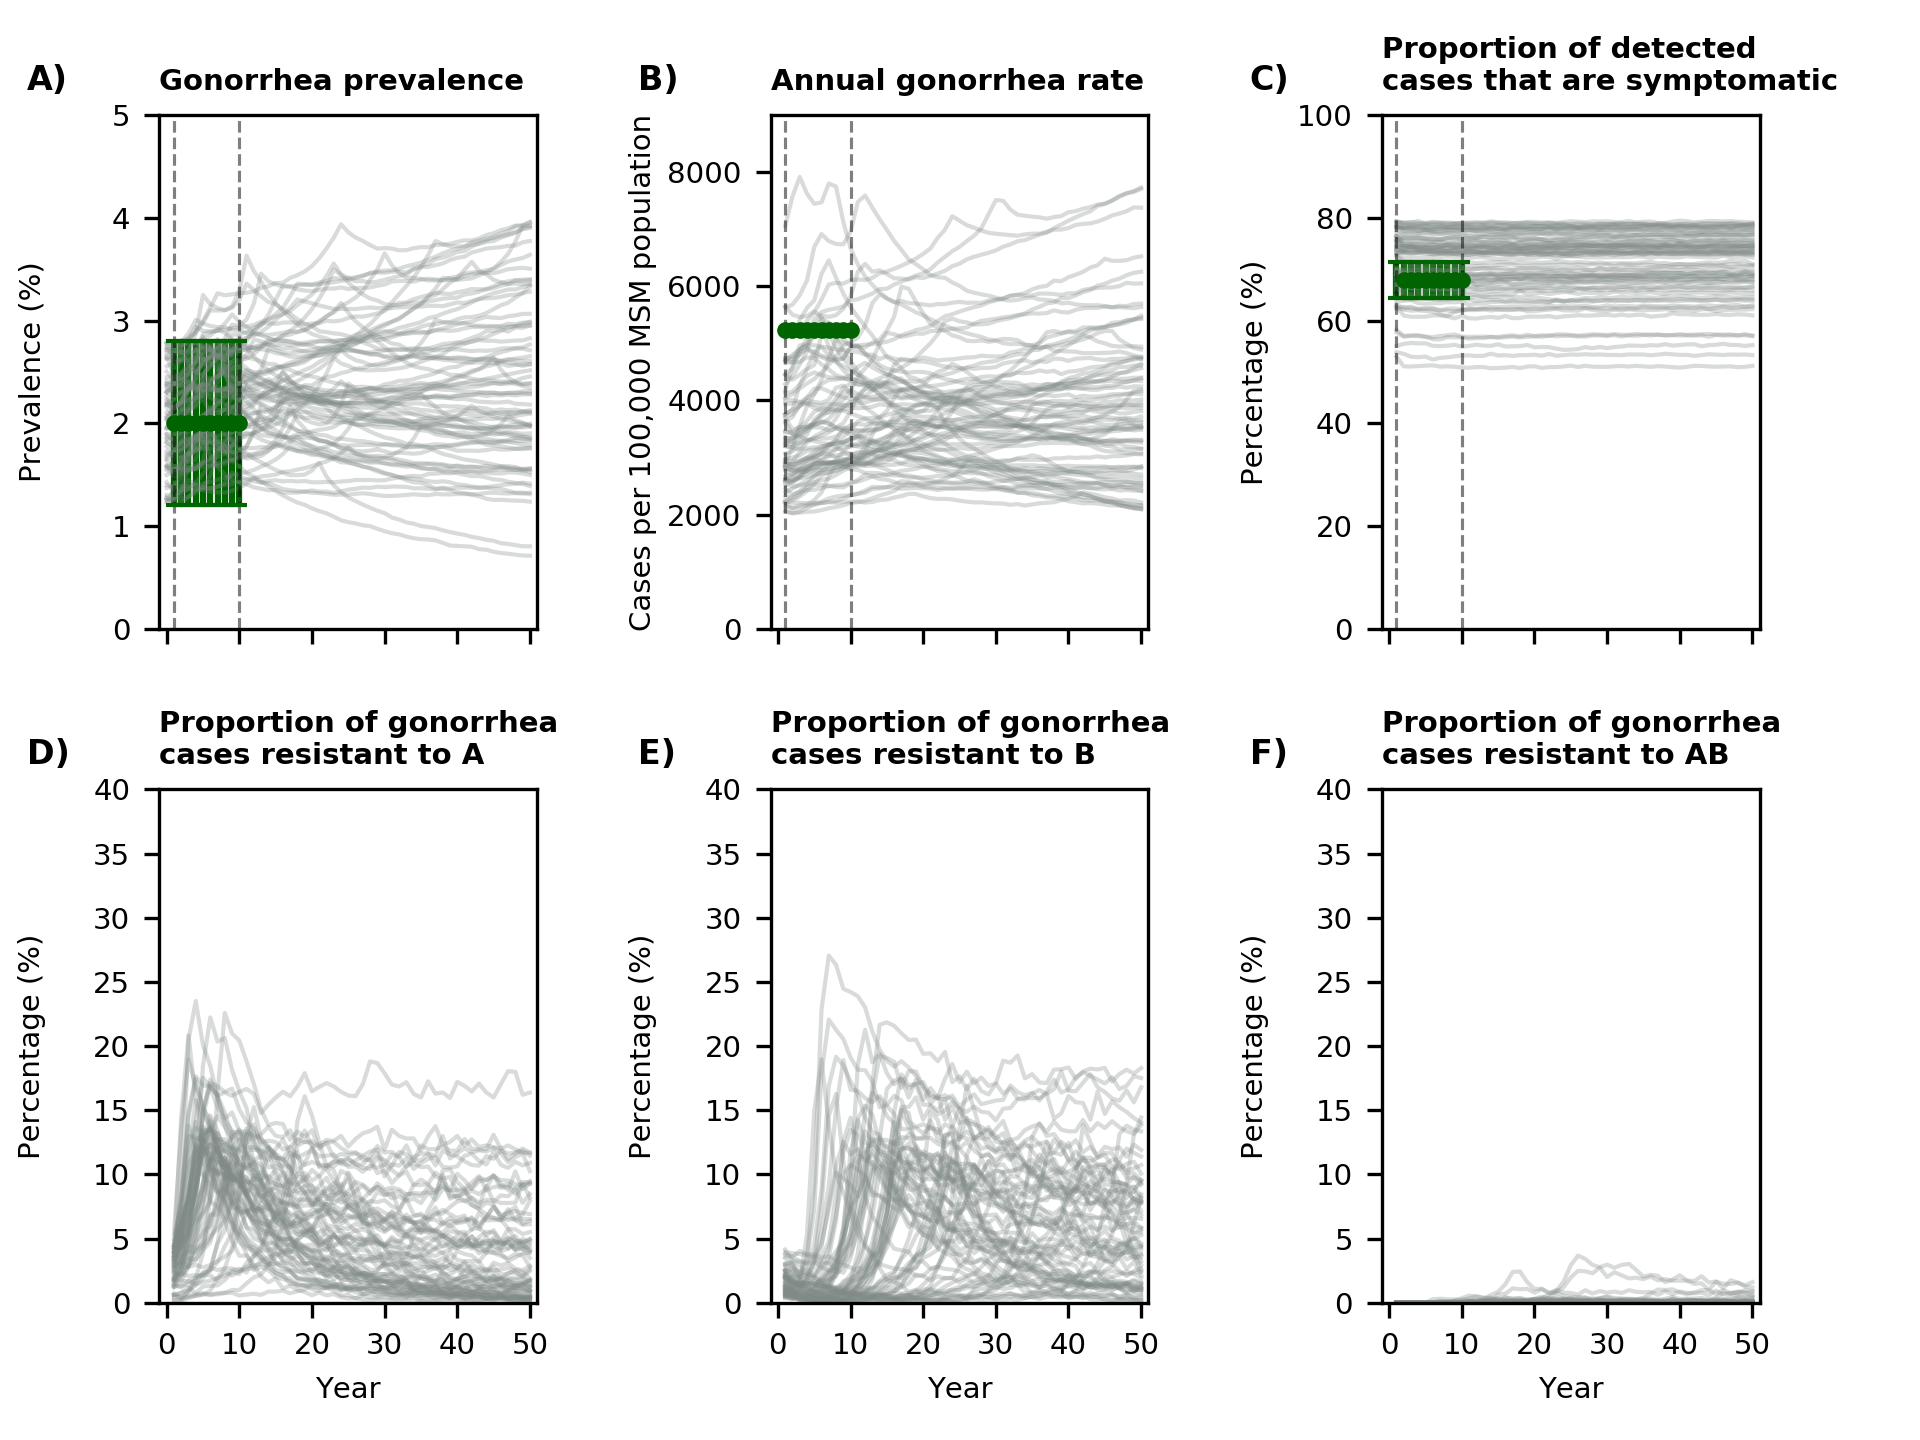
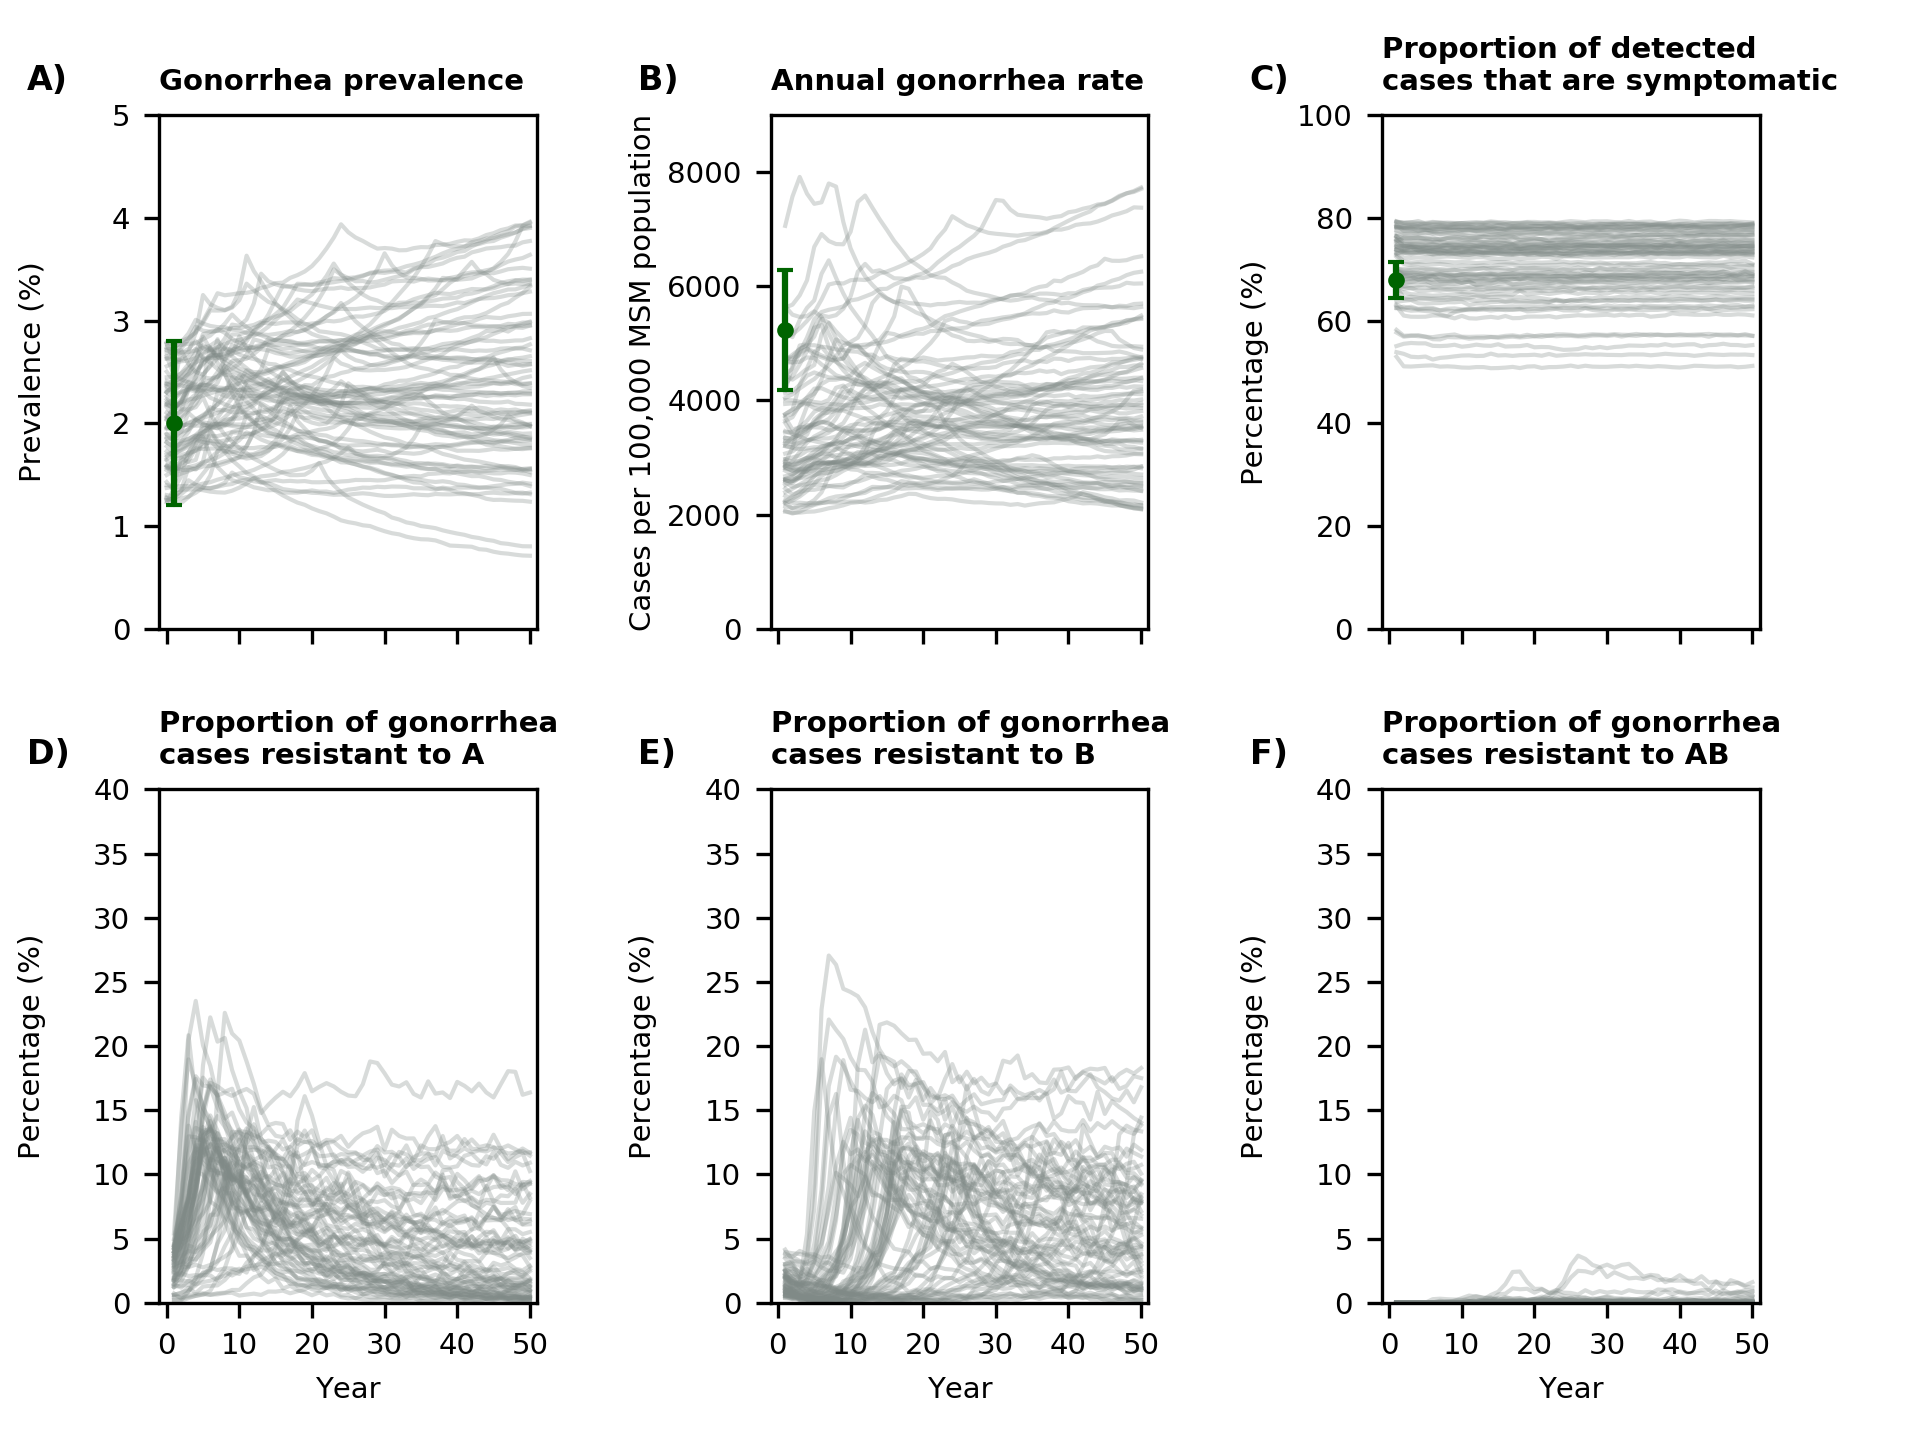
calibration

Changed region(s): [[0.0625, 0.2188, 0.125, 0.375], [0.7188, 0.1562, 0.7812, 0.2188], [0.4062, 0.1875, 0.4688, 0.2812]]

diff --git a/gonorrhea/GonoCalibration.py b/gonorrhea/GonoCalibration.py
@@ -38,10 +38,10 @@ list_plot_calib_info.append(
     Vis.PlotCalibrationInfo(
         list_of_observed_outcomes=obss,
         if_connect_obss=False,
-        feasible_range_info=Vis.FeasibleRangeInfo(
-            x_range=[1, 10],
-            y_range=[2, 2],
-            fill_between=False)
+        # feasible_range_info=Vis.FeasibleRangeInfo(
+        #     x_range=[1, 10],
+        #     y_range=[2, 2],
+        #     fill_between=False)
     )
 )
 
@@ -62,11 +62,11 @@ list_plot_calib_info.append(
     Vis.PlotCalibrationInfo(
         list_of_observed_outcomes=obss,
         if_connect_obss=False,
-        feasible_range_info=Vis.FeasibleRangeInfo(
-            x_range=[1, 10],
-            y_range=[0.01*100000, 0.06*100000],
-            fill_between=False
-        )
+        # feasible_range_info=Vis.FeasibleRangeInfo(
+        #     x_range=[1, 10],
+        #     y_range=[0.01*100000, 0.06*100000],
+        #     fill_between=False
+        # )
     )
 )
 
@@ -87,11 +87,11 @@ list_plot_calib_info.append(
     Vis.PlotCalibrationInfo(
         list_of_observed_outcomes=obss,
         if_connect_obss=False,
-        feasible_range_info=Vis.FeasibleRangeInfo(
-            x_range=[1, 10],
-            y_range=[50, 100],
-            fill_between=False
-        )
+        # feasible_range_info=Vis.FeasibleRangeInfo(
+        #     x_range=[1, 10],
+        #     y_range=[50, 100],
+        #     fill_between=False
+        #)
     )
 )
 

diff --git a/apace/TrajectoriesClasses.py b/apace/TrajectoriesClasses.py
@@ -243,7 +243,8 @@ class TrajsDataFrame:
                         plot_info.yMultiplier * traj.obss,
                         plot_info.commonColorCode,
                         linewidth=1,
-                        alpha=plot_info.transparency)
+                        alpha=plot_info.transparency,
+                        zorder=1)
             else:
                 ax.plot(plot_info.xMultiplier * traj.times,
                         plot_info.yMultiplier * traj.obss,
@@ -281,10 +282,12 @@ class TrajsDataFrame:
             linestyle = '-' if calibration_info.ifConnectObss else 'none'
             capsize = 2 if calibration_info.ifShowCaps else 0
 
-            ax.plot(x_arr, y_arr, marker='o', markersize=3, ls=linestyle, lw=1, color=calibration_info.colorCode)
+            ax.plot(x_arr, y_arr,
+                    marker='o', markersize=3, ls=linestyle, lw=1, color=calibration_info.colorCode, zorder=2)
             if lower_error and upper_error:
                 error_arr = [lower_error, upper_error]
-                ax.errorbar(x_arr, y_arr, yerr=error_arr, fmt='none', capsize=capsize, color=calibration_info.colorCode)
+                ax.errorbar(x_arr, y_arr,
+                            yerr=error_arr, fmt='none', capsize=capsize, color=calibration_info.colorCode, zorder=2)
 
         # remove top and right border
         if REMOVE_TOP_RIGHT_BORDERS:

diff --git a/gonorrhea/GonoData.py b/gonorrhea/GonoData.py
@@ -11,41 +11,14 @@ PercentCiprofloxacinResistant = [
 
 Prevalence = [
     [1, 2, 1.2, 2.8],
-    [2, 2, 1.2, 2.8],
-    [3, 2, 1.2, 2.8],
-    [4, 2, 1.2, 2.8],
-    [5, 2, 1.2, 2.8],
-    [6, 2, 1.2, 2.8],
-    [7, 2, 1.2, 2.8],
-    [8, 2, 1.2, 2.8],
-    [9, 2, 1.2, 2.8],
-    [10, 2, 1.2, 2.8]
 ]
 
 GonorrheaRate = [
-    [1, 5242],
-    [2, 5242],
-    [3, 5242],
-    [4, 5242],
-    [5, 5242],
-    [6, 5242],
-    [7, 5242],
-    [8, 5242],
-    [9, 5242],
-    [10, 5242]
+    [1, 5242, 4190, 6290],
 ]
 
 PercSymtomatic = [
-    [1, 677.9, 64.4, 71.4],
-    [2, 67.9, 64.4, 71.4],
-    [3, 67.9, 64.4, 71.4],
-    [4, 67.9, 64.4, 71.4],
-    [5, 67.9, 64.4, 71.4],
-    [6, 67.9, 64.4, 71.4],
-    [7, 67.9, 64.4, 71.4],
-    [8, 67.9, 64.4, 71.4],
-    [9, 67.9, 64.4, 71.4],
-    [10, 67.9, 64.4, 71.4]
+    [1, 67.9, 64.4, 71.4],
 ]
 
 
